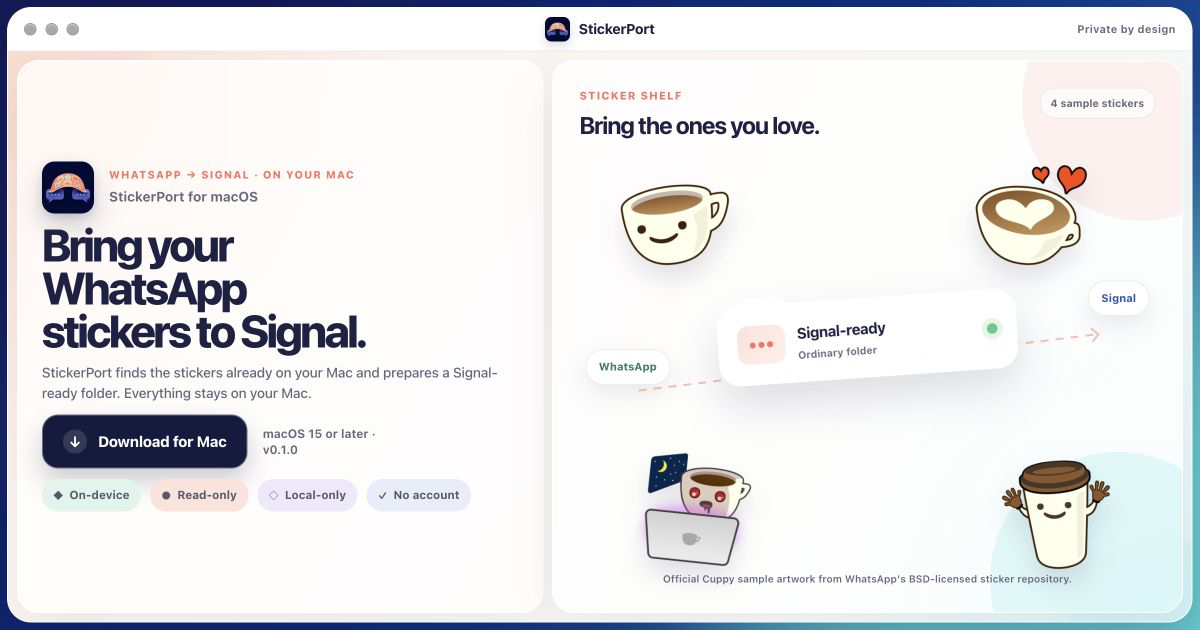
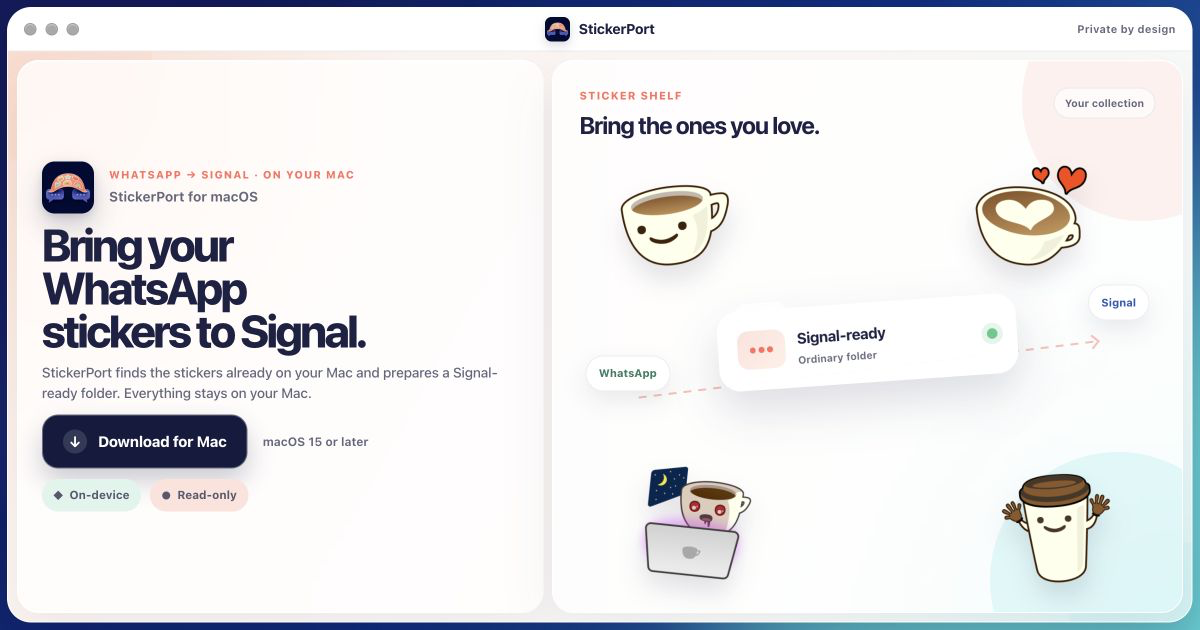
fix: simplify responsive landing details

diff --git a/website/app/globals.css b/website/app/globals.css
@@ -379,14 +379,6 @@ h1 {
   background: var(--app-coral-soft);
 }
 
-.trust-list__local {
-  background: #eee9fb;
-}
-
-.trust-list__account {
-  background: #e8edf9;
-}
-
 .trust-list li span {
   color: currentColor;
   font-size: 0.62rem;
@@ -395,7 +387,7 @@ h1 {
 .sticker-shelf {
   position: relative;
   display: grid;
-  grid-template-rows: auto minmax(0, 1fr) auto;
+  grid-template-rows: auto minmax(0, 1fr);
   margin: 0;
   overflow: hidden;
   padding: clamp(1rem, 2.2vw, 1.8rem);
@@ -627,18 +619,6 @@ h1 {
   box-shadow: 0 0 0 0.34rem rgba(80, 200, 137, 0.17);
 }
 
-.sticker-shelf figcaption {
-  position: relative;
-  z-index: 6;
-  max-width: 34rem;
-  margin-inline: auto;
-  color: var(--app-muted);
-  font-size: 0.63rem;
-  font-weight: 580;
-  line-height: 1.35;
-  text-align: center;
-}
-
 .site-footer {
   position: relative;
   z-index: 4;
@@ -679,7 +659,7 @@ h1 {
 @media (max-width: 860px) {
   .hero {
     grid-template-columns: minmax(0, 1fr);
-    grid-template-rows: auto minmax(11rem, 0.82fr);
+    grid-template-rows: auto minmax(12.5rem, 0.9fr);
   }
 
   .hero-card {
@@ -709,12 +689,47 @@ h1 {
   }
 
   .sample-sticker {
-    width: clamp(4.25rem, 17vw, 7rem);
+    width: clamp(3.6rem, 12vw, 5.1rem);
+  }
+
+  .sample-sticker--smile {
+    top: 4%;
+    left: 6%;
+  }
+
+  .sample-sticker--love {
+    top: 2%;
+    right: 8%;
+  }
+
+  .sample-sticker--work {
+    bottom: -3%;
+    left: 16%;
+  }
+
+  .sample-sticker--hi {
+    right: 14%;
+    bottom: -4%;
   }
 
   .folder-card {
-    top: 33%;
-    width: min(48%, 19rem);
+    top: 38%;
+    width: min(42%, 16rem);
+    padding: 0.72rem;
+  }
+
+  .platform-chip--source {
+    top: 53%;
+    left: 1%;
+  }
+
+  .platform-chip--destination {
+    top: 39%;
+    right: 1%;
+  }
+
+  .transfer-path {
+    top: 59%;
   }
 }
 
@@ -864,16 +879,11 @@ h1 {
     font-size: 0.58rem;
   }
 
-  .sticker-shelf figcaption {
-    display: none;
-  }
-
   .site-footer {
     padding-top: 0.45rem;
   }
 
-  .site-footer > span,
-  .site-footer a:first-child {
+  .site-footer > span {
     display: none;
   }
 
@@ -941,8 +951,7 @@ h1 {
 @media (max-height: 500px) {
   .toolbar-note,
   .product-kicker,
-  .trust-list,
-  .sticker-shelf figcaption {
+  .trust-list {
     display: none;
   }
 
@@ -1024,8 +1033,7 @@ h1 {
 
   .lede,
   .compatibility,
-  .site-footer,
-  .sticker-shelf figcaption {
+  .site-footer {
     color: var(--app-ink);
   }
 }

diff --git a/website/app/page.tsx b/website/app/page.tsx
@@ -92,12 +92,6 @@ export default function Home() {
                 <li className="trust-list__read">
                   <span aria-hidden="true">●</span> Read-only
                 </li>
-                <li className="trust-list__local">
-                  <span aria-hidden="true">◇</span> Local-only
-                </li>
-                <li className="trust-list__account">
-                  <span aria-hidden="true">✓</span> No account
-                </li>
               </ul>
             </div>
 
@@ -110,7 +104,7 @@ export default function Home() {
                   <p>Sticker shelf</p>
                   <strong>Bring the ones you love.</strong>
                 </div>
-                <span>4 sample stickers</span>
+                <span>Your collection</span>
               </div>
 
               <div className="shelf-stage">
@@ -149,23 +143,12 @@ export default function Home() {
                   Signal
                 </span>
               </div>
-
-              <figcaption>
-                Official Cuppy sample artwork from WhatsApp&apos;s BSD-licensed
-                sticker repository.
-              </figcaption>
             </figure>
           </section>
 
           <footer className="site-footer">
             <span>Not affiliated with WhatsApp or Signal.</span>
             <div>
-              <a
-                href="https://github.com/WhatsApp/stickers"
-                aria-label="View the source for the Cuppy sample stickers"
-              >
-                Sticker source
-              </a>
               <a href={siteConfig.repositoryUrl}>View app source</a>
             </div>
           </footer>

diff --git a/website/app/site-config.ts b/website/app/site-config.ts
@@ -7,7 +7,7 @@ export const siteConfig = {
   supportingCopy:
     "StickerPort finds the stickers already on your Mac and prepares a Signal-ready folder. Everything stays on your Mac.",
   version: "0.1.0",
-  compatibility: "macOS 15 or later · v0.1.0",
+  compatibility: "macOS 15 or later",
   downloadUrl:
     "https://github.com/megabyte0x/stickerport/releases/download/v0.1.0/StickerPort-0.1.0.dmg",
   repositoryUrl: "https://github.com/megabyte0x/stickerport",